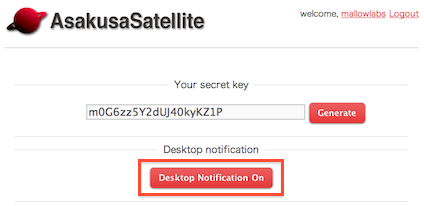
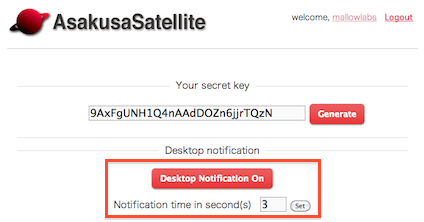
Added: Notification time description

diff --git a/source/function.rst b/source/function.rst
@@ -112,6 +112,11 @@
 
 .. image:: images/notification_config.png
 
+表示時間を設定する場合は、 **Notification time in second(s)** の値を
+変更し、 **Set** をクリックしてください。
+デフォルトは3秒です。0秒に設定すると、通知は表示されたままになります。
+OS X の通知センターをご利用の場合は、0秒に指定すると便利です。
+
 許可を解除するためには、Google Chrome のアドレスバーに
 
 chrome://settings/contentExceptions#notifications
